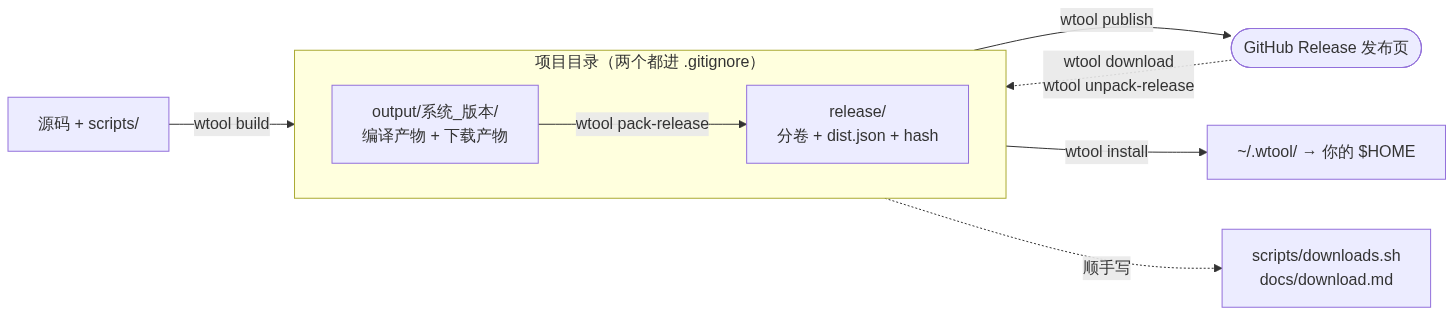
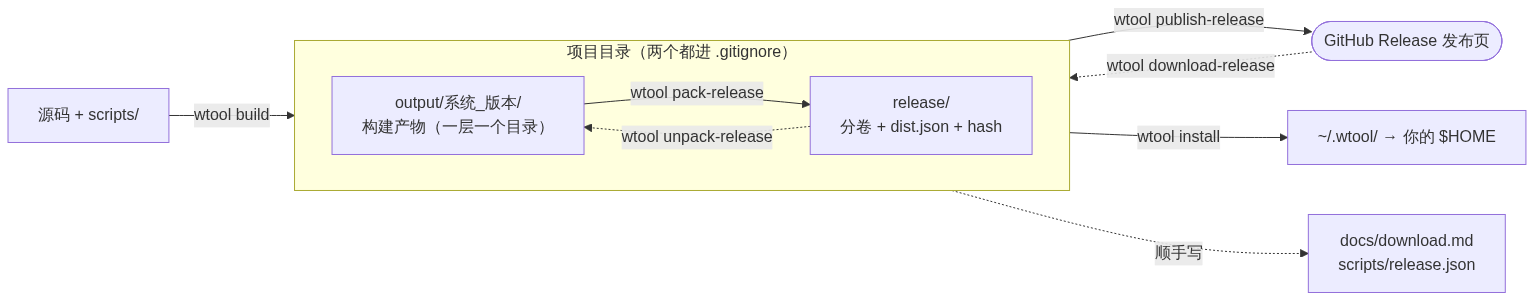
用户文档三处存量过期修掉（BL-33）
- README §1.6：那张「实现进度表」整节删掉 —— 进度会过期，
  而且和 BACKLOG 是两份真相；这份文档只写已经成立的东西
- README §1.5 的提示改成指 BACKLOG；§4.4 那句「还会装系统依赖」改成自己说清
- 示例能力表里 astronvim 的 install 列：待产出 → 可执行（什么都没装过的机器上就是这样）
- guide.md §3 子项目表按 default.xml 重写：补 harness / harness/dsh-conf /
  tools/gerrit-gate（注明已废弃）/ tools/dsh-remote，并写清「能力表是自动算的、这张是手写的」
- .pic/commands.mmd 换成新命令（publish-release / download-release / release.json），
  用 render.sh 重新渲染 commands.png 并读图核对

diff --git a/README.md b/README.md
@@ -58,8 +58,10 @@ docker run --rm -it --network=host -v "$PWD":/wtool:ro \
 
 （`$PWD` 要换成工作区目录；两个容器脚本的差别见第 4.3 节。）
 
-> **怎么看下面这些表**：✅ = 现在就能用；🚧 = 已经设计好、还没实现，
-> 今天敲它会报"不认识这条命令"。缺口清单在第 1.6 节。
+> **怎么看下面这些表**：✅ = 现在就能用；🚧 = 已经设计好、还没实现（敲它会报
+> "不认识这条命令"）。这份文档只写**已经成立**的东西 —— 还在做的是什么、
+> 做到哪了，看工作区里 `harness/BACKLOG.md`（那是唯一的进度来源，不在这份文档里
+> 维护第二份，免得两边说法不一样）。
 
 ---
 
@@ -358,7 +360,7 @@ wtool install editor/astronvim_v5           # 装
 │ harness/dsh-conf     │ 48   │ 不支持 │ 可执行  │
 │ terminal/tmux        │ 50   │ 不支持 │ 可执行  │
 │ terminal/fzf         │ 60   │ 不支持 │ 可执行  │
-│ editor/astronvim_v5  │ 70   │ 可执行 │ 待产出  │
+│ editor/astronvim_v5  │ 70   │ 可执行 │ 可执行  │
 │ lightmind            │ 100  │ 不支持 │ 不支持  │
 └──────────────────────┴──────┴────────┴─────────┘
 ```
@@ -399,34 +401,16 @@ wtool install editor/astronvim_v5           # 装
 
 ### 1.6 现在到哪一步了
 
-上面这套是**正在落地的目标**。已经做到的和还没做的：
+**这一节原来是一张"实现进度表"，现在删掉了** —— 进度是**会过期**的东西，
+而这份文档是给所有人看的：读者照着做的时候，看到的必须是"现在就能用"的东西，
+不是一张写着 🚧 的愿望清单（那还是两份真相：实现了没实现，`BACKLOG.md` 说了算）。
 
-| | 状态 |
-|---|---|
-| `wtool.xml` 存在即项目、`<link>` 三段映射、软链只在 `$HOME` | 🚧 目标形态；今天 `wtool.xml` 里的写法还是旧的 `src=`/`dest=` |
-| 影子家目录（实体在 `~/.wtool`，路径和 `$HOME` 一一对应） | 🚧 目标形态；今天产物都在 `~/.wtool/usr/` 下，`~/usr` 这条软链还没建 |
-| 引擎自己的东西（自举、中转软链、临时）收在 `~/.wtool/wtool-work-dir/` | 🚧 今天散在 `~/.wtool/bootstrap`、`~/.wtool/src`、`~/.wtool/wtool-work-dir/links/`（最后这个违反了"影子家目录里只放家目录里有的路径"，要收进来） |
-| `install` 永不要 sudo、永不联网 | ✅ 本机安装这条路已经是；但**从发布包铺开**那条路（`release/` 里放着 `dist.json` 加分卷时）今天还会装系统依赖，而且是直接铺到 `$HOME` |
-| 执行顺序：先跑项目的 `install.sh`，再铺 `$HOME` 软链 | 🚧 今天是反的（先铺软链再跑脚本） |
-| `build` 产出写进项目的 `output/` 再给 `install` 读 | ✅ 已实现：`build` 写 `output/`、`install` 只读 `output/`（下载那条路是 `download-release` + `unpack-release`，也落到同一个 `output/`） |
-| `pack-release` / `publish-release` / `download-release` / `unpack-release` 各一条 | ✅ 已实现：发布/下载是引擎的四条命令，项目侧不用写脚本 |
-| `sudo-install` / `sudo-uninstall` / `sudo-bootstrap` | 🚧 今天叫 `provision`，没有批量那条 |
-| `check` / `repair` / `kill-self-forever` | 🚧 还没有 |
-| `wtool status` 含软链检查、`wtool doctor` 含环境变量 | 🚧 今天 `list` 和 `env` 还是单独两条命令 |
-| 语言包（`lang/cpp`、`lang/python`…）按需叠加 | 🚧 设计好了，还没实现 |
+上面 1.1–1.5 讲的机制**现在全部成立**：影子家目录（实体在 `~/.wtool`，
+`~/usr` 那条软链在）、`install` 先跑项目脚本再铺 `$HOME` 软链、
+`install` 永不要 sudo 也永不联网、发布下载是引擎的四条命令、
+`sudo-*` / `check` / `repair` / `kill-self-forever` 都在、语言层按需叠加。
 
-**今天敲命令的对照**（左：本文档里的新名字；右：现在实际存在的名字）：
-
-| 新名字 | 今天实际敲 |
-|---|---|
-| `wtool sudo-install <路径>` | `wtool provision <路径>` |
-| `wtool doctor` | `wtool doctor` 和 `wtool env` 两条 |
-| `wtool status <路径>` | `wtool status` 和 `wtool list` 两条 |
-| `wtool`（裸跑） | `wtool table` 也行 |
-| —— | `wtool scaffold` 已改名叫 `wtool init` |
-
-对使用者来说，差别只有一个：**换机器不用重编** —— 要么 `wtool build` 一遍，
-要么 `download-release` + `unpack-release` 把别人编好的包取回来，两条路的结果一样。
+想知道"还剩什么没做"，看工作区里的 `harness/BACKLOG.md`。
 
 ### 1.7 现在有哪些项目
 
@@ -835,7 +819,8 @@ docker run --rm -it --network=host \
 所以之后的 `wtool install` 完全不关心它是编出来的还是下下来的。
 
 **本机装这条路断网也能跑**，所以它出错时你看到的永远是"缺什么"，不会是"网断了"。
-（从发布包铺开那条路目前还会装系统依赖，上面 1.6 说了。）
+（从发布包铺开那条路要先跑 `./install.sh` 准备运行环境 —— 那一步会装系统包；
+`wtool install` 本身永不要 sudo。）
 
 发布过包的项目分两种。**纯源码包**（大多数项目）解开就是仓库目录树，没有额外脚本。
 **带编译产物的项目**（现在只有 Neovim 那套）Release 页面里会多带分卷和一份 `dist.json`——

diff --git a/guide.md b/guide.md
@@ -398,25 +398,37 @@ wtool doctor --quiet       # 只输出环境变量；eval "$(wtool doctor --quie
 
 ## 3. 子项目
 
-| 项目 | 仓库 | 简介 |
+工作区分好几层，每层是一个**独立的仓库**（用 `repo` 工具统一管理）。
+下面是清单里登记的全部项目 —— 和 `.repo/manifests/default.xml` 一一对应：
+
+| 项目（工作区里的路径） | 仓库 | 简介 |
 |---|---|---|
 | `wtool-base` | [allinkernel/wtool](https://github.com/allinkernel/wtool) | 文档。你正在看的这份 |
-| `bootstrap` | [allinkernel/wtool-bootstrap](https://github.com/allinkernel/wtool-bootstrap) | 引擎本体 |
+| `bootstrap` | [allinkernel/wtool-bootstrap](https://github.com/allinkernel/wtool-bootstrap) | 引擎本体：`wtool` 这条命令、规划器、执行器 |
+| `harness` | [allinkernel/wtool-harness](https://github.com/allinkernel/wtool-harness) | 给 AI 助手看的项目记忆（架构书 / 决策记录 / 待办 / 历史流水） |
+| `harness/dsh-conf` | [allinkernel/wtool-dsh-conf](https://github.com/allinkernel/wtool-dsh-conf) | `~/.dsh` 里**声明式**的那部分（用户级规则、DSH 设置、钩子、自建 skills） |
 | `os/ubuntu` | [allinkernel/wtool-os-ubuntu](https://github.com/allinkernel/wtool-os-ubuntu) | Ubuntu 系统包与 apt 镜像 |
-| `shell/zsh` | [allinkernel/wtool-zsh](https://github.com/allinkernel/wtool-zsh) | zsh 配置 |
+| `editor/astronvim_v5` | [allinkernel/wtool-astronvim_v5](https://github.com/allinkernel/wtool-astronvim_v5) | Neovim 环境的构建与发布 |
+| `editor/astronvim_v5/astronvim_v5_config` | [allinkernel/wtool-astronvim_v5_config](https://github.com/allinkernel/wtool-astronvim_v5_config) | 上面那套的具体配置 |
+| `editor/astronvim_v5/nvim` | [neovim/neovim](https://github.com/neovim/neovim) | 上游 Neovim 源码（**不是我们的项目**，只是钉在这个位置） |
 | `shell/oh-my-zsh` | [allinkernel/wtool-ohmyzsh](https://github.com/allinkernel/wtool-ohmyzsh) | oh-my-zsh 本体 |
+| `shell/zsh` | [allinkernel/wtool-zsh](https://github.com/allinkernel/wtool-zsh) | zsh 配置 |
 | `terminal/tmux` | [allinkernel/wtool-tmux-config](https://github.com/allinkernel/wtool-tmux-config) | tmux 配置与状态脚本 |
 | `terminal/fzf` | [allinkernel/wtool-fzf-binary](https://github.com/allinkernel/wtool-fzf-binary) | fzf 预编译二进制 |
 | `tools/repo` | [allinkernel/wtool-repo](https://github.com/allinkernel/wtool-repo) | repo 工具 |
 | `tools/android_repack` | [allinkernel/wtool-android_repack](https://github.com/allinkernel/wtool-android_repack) | Android 镜像解包 / 改包 / 重签 |
-| `editor/astronvim_v5` | [allinkernel/wtool-astronvim_v5](https://github.com/allinkernel/wtool-astronvim_v5) | Neovim 环境的构建与发布 |
-| `editor/astronvim_v5/astronvim_v5_config` | [allinkernel/wtool-astronvim_v5_config](https://github.com/allinkernel/wtool-astronvim_v5_config) | 上面那套的具体配置 |
-| `editor/astronvim_v5/nvim` | [neovim/neovim](https://github.com/neovim/neovim) | 上游 Neovim 源码（不是我们的项目） |
+| `tools/gerrit-gate` | [allinkernel/wtool-gerrit-gate](https://github.com/allinkernel/wtool-gerrit-gate) | docker 里跑一台 Gerrit 的检视闸门。**已废弃**（改成"改动只提交到 `ds_dev`、人来合"，见工作区 `harness/docs/adr/0019`），实物留着可恢复 |
+| `tools/dsh-remote` | [allinkernel/wtool-dsh-remote](https://github.com/allinkernel/wtool-dsh-remote) | 手机远程接管家里的会话（阿里云 Caddy + SSH 反向隧道 + 通知） |
 | `themes/typora/lightmind` | [allinkernel/typora-LightMindTheme](https://github.com/allinkernel/typora-LightMindTheme) | Typora 主题 |
+
+> 清单里还有个 `groups="..."` 的字段（`base` / `zsh` / `vim` / `android` / `gerrit` /
+> `remote` / `themes`），可以只同步你要的那几组：`repo init -g all,-gerrit,-remote ...`。
 
 每个项目的详细说明（它装了什么、有哪些脚本、怎么改）由**项目自己**的 README 维护，点仓库名进去看。
 
-新增项目后，这份表不会自动更新——它是写在文档里的。要加一个项目，就在 `default.xml` 里登记它，然后把上面这张表补一行。
+**这张表是手写的**（工作区根目录跑 `wtool` 打出来的那张表是**自动算的**，两者角度不同：
+那张表看"这个项目有哪些能力"，这张表看"它对应哪个仓库"）。加一个项目要在
+`.repo/manifests/default.xml` 里登记，然后回来给这张表补一行。
 
 ---
 
